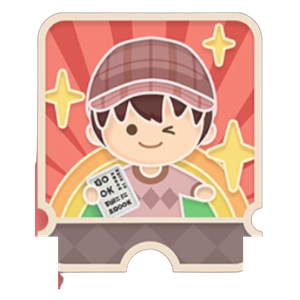
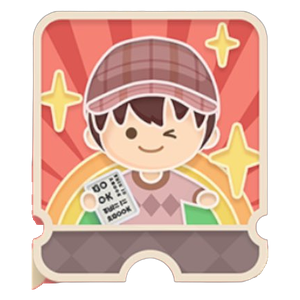
実績バッジの切り抜きをフレームテンプレート方式で再修正 (#13)
* 実績バッジの切り抜きをフレームテンプレート方式で再修正

これまでの行単位の手法では、過剰に削れる・月桂樹が残るの両方が
依然として発生していた。同一UIテンプレートを共有する複数のバッジ
（かぼちゃダルマ・収集家・パズルの芸術家など）から共通のフレーム
形状マスクを抽出し、それをスタンプとして適用することで、本来の
丸い輪郭を完全に保ったまま装飾の混入だけを正確に除去した。
解像度の異なる元画像（弛まぬ筆）は、安定した上部の幅から算出した
倍率でテンプレートを整列。台座のない丸底タイプ（スターダスト
コレクター・名手の第一歩）は別途、台座なしバッジのテンプレートを
使用。

Claude-Session: https://claude.ai/code/session_01K3eMRAeT6oYS9BRu22swvm

* キャッシュバージョンを更新

Claude-Session: https://claude.ai/code/session_01K3eMRAeT6oYS9BRu22swvm

---------

diff --git a/service-worker.js b/service-worker.js
@@ -1,5 +1,5 @@
 // キャッシュ名（更新時はバージョンを上げる）
-const CACHE_NAME = "hatopi-v2.601.0";
+const CACHE_NAME = "hatopi-v2.602.0";
 
 // キャッシュするファイル一覧
 const CACHE_FILES = [
